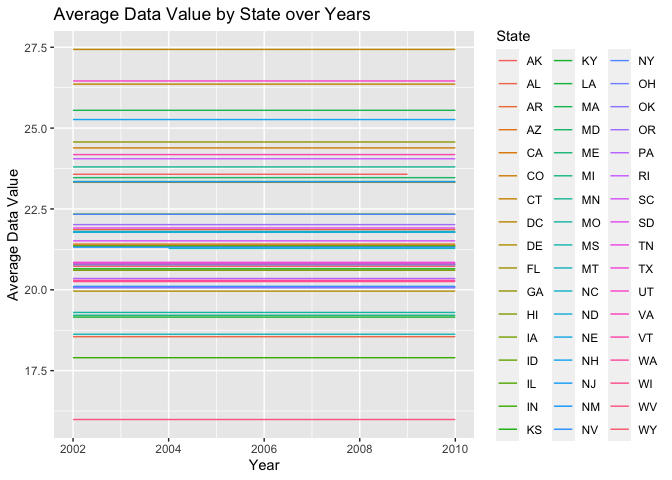
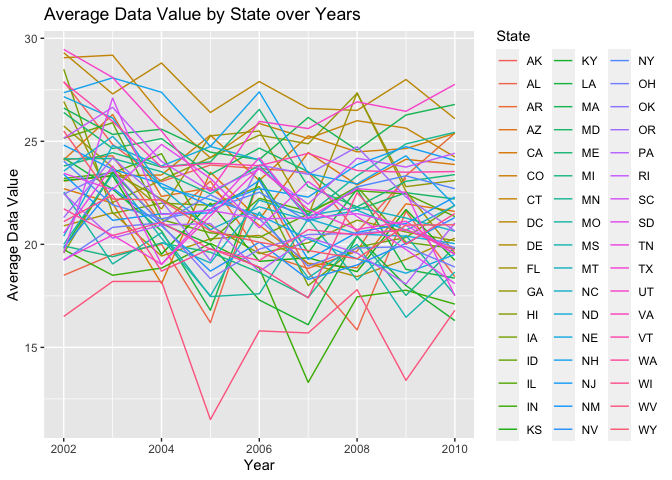
fixing part one

Changed region(s): [[0.0312, 0.0, 0.6875, 1.0], [0.5, 0.9062, 0.5625, 0.9688], [0.6562, 0.9062, 0.6875, 0.9375]]

diff --git a/p8105_hw3_jer2243.md b/p8105_hw3_jer2243.md
@@ -50,17 +50,20 @@ brfss_2002 <- brfss_smart2010_tidy |>
 result <- brfss_2002 |>
   group_by(locationabbr) |>
   summarise(unique_locationdesc = n_distinct(locationdesc)) |>
-  filter(unique_locationdesc > 7)
+  filter(unique_locationdesc >= 7)
 
 print(result)
 ```
 
-    ## # A tibble: 3 × 2
+    ## # A tibble: 6 × 2
     ##   locationabbr unique_locationdesc
     ##   <chr>                      <int>
-    ## 1 MA                             8
-    ## 2 NJ                             8
-    ## 3 PA                            10
+    ## 1 CT                             7
+    ## 2 FL                             7
+    ## 3 MA                             8
+    ## 4 NC                             7
+    ## 5 NJ                             8
+    ## 6 PA                            10
 
 ``` r
 brfss_2010 <- brfss_smart2010_tidy |>
@@ -69,39 +72,45 @@ brfss_2010 <- brfss_smart2010_tidy |>
 result <- brfss_2010 |>
   group_by(locationabbr) |>
   summarise(unique_locationdesc = n_distinct(locationdesc)) |>
-  filter(unique_locationdesc > 7)
+  filter(unique_locationdesc >= 7)
 
 print(result)
 ```
 
-    ## # A tibble: 11 × 2
+    ## # A tibble: 14 × 2
     ##    locationabbr unique_locationdesc
     ##    <chr>                      <int>
     ##  1 CA                            12
-    ##  2 FL                            41
-    ##  3 MA                             9
-    ##  4 MD                            12
-    ##  5 NC                            12
-    ##  6 NE                            10
-    ##  7 NJ                            19
-    ##  8 NY                             9
-    ##  9 OH                             8
-    ## 10 TX                            16
-    ## 11 WA                            10
+    ##  2 CO                             7
+    ##  3 FL                            41
+    ##  4 MA                             9
+    ##  5 MD                            12
+    ##  6 NC                            12
+    ##  7 NE                            10
+    ##  8 NJ                            19
+    ##  9 NY                             9
+    ## 10 OH                             8
+    ## 11 PA                             7
+    ## 12 SC                             7
+    ## 13 TX                            16
+    ## 14 WA                            10
 
-3 states in 2002 were observed at 7 or more locations (MA, NJ, PA). 11
-states in 2010 were observed at 7 or more locations (CA, FL, MA, MD, NC,
-NE, NJ, NY, OH, TX, WA).
+In 2002, 6 states were observed at 7 or more locations (CT, FL, MA, NC,
+NJ, PA). In 2010, 14 states were observed at 7 or more locations (CA,
+CO, FL, MA, MD, NC, NE, NJ, NY, OH, PA, SC, TX, WA).
 
 ## Construct a dataset limited to “excellent” responses
 
 ``` r
 brfss_excellent = brfss_smart2010_tidy |>
   filter(response == "5") |>
-  group_by(locationabbr) |>
+  group_by(locationabbr, year) |>
   mutate(data_value_avg = mean(data_value, na.rm = TRUE)) |>
   select(year, locationabbr, data_value_avg)
 ```
+
+The dataset limited to “excellent” responses consists off 2,125
+observations.
 
 ## Spaghetti plot of the avg value over time within a state
 
